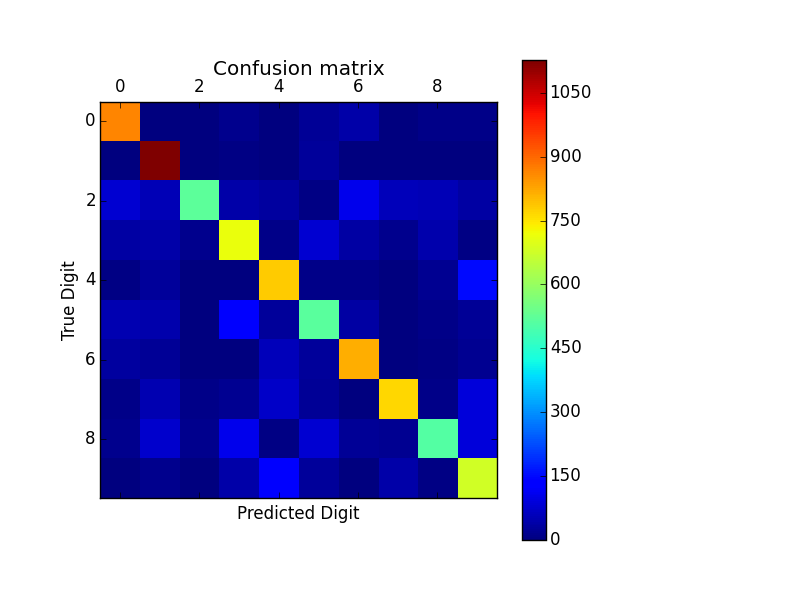
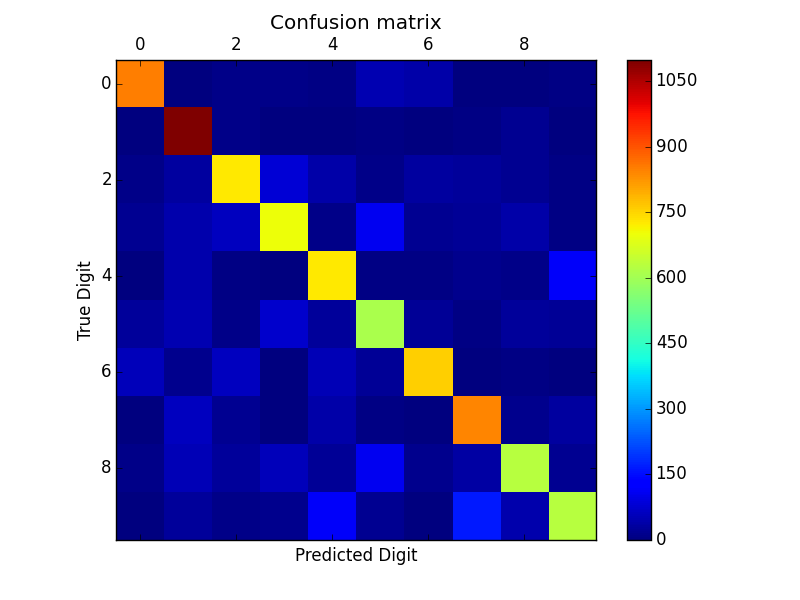
Added in code for kaggle test, added histogram to make sense of results, cleaned up code

diff --git a/HW1/problem1.py b/HW1/problem1.py
@@ -62,6 +62,7 @@ if DEBUG:
     print trainMatrix, testMatrix
 
 ############# GET DATA ############# 
+testData = np.array(testMatrix['test_images'])
 imageData = np.array(trainMatrix['train_images'])
 imageData = np.rollaxis(imageData, 2, 0)                # move the index axis to be the first 
 imageLabels = np.array(trainMatrix['train_labels'])
@@ -108,6 +109,13 @@ for elem in imageComplete:
 
 # NOTE: Set aside 50,000-60,000 to validate
 
+# Plot the distribution of digits in Validation Data
+plt.title('Histogram for Validation Data')
+plt.ylabel('Count')
+plt.xlabel('Digit Label')
+plt.hist(shuffledLabels[50000:])
+plt.savefig("./Results/ValidationData_Hist.png")
+
 ############# TRAIN SVM ############# 
 print 50*'='
 print "SVM TRAINING"
@@ -121,7 +129,7 @@ for elem in training_Size:
         print 50*'-'
         print "Shuffled Data and Label shape: ", len(shuffledData), len(shuffledLabels)
     
-    clf = svm.SVC(kernel='linear', C=C[1])
+    clf = svm.SVC(kernel='linear', C=C[4])
     clf.fit(shuffledData[:elem], np.array(shuffledLabels[:elem]))
     
     predicted_Digits = clf.predict(shuffledData[50000:])
@@ -139,7 +147,7 @@ for elem in training_Size:
     cm = confusion_matrix(actual_Digits, predicted_Digits)
 ############# PLOT RESULTS #############     
     # Show confusion matrix in a separate window
-    fig = plt.figure(0)
+    fig = plt.figure()
     ax = fig.add_subplot(111)
     cax = ax.matshow(cm)
     plt.title('Confusion matrix')
@@ -147,14 +155,17 @@ for elem in training_Size:
     plt.ylabel('True Digit')
     plt.xlabel('Predicted Digit')
     plt.savefig("./Results/" + str(elem)+"_CM.png")
-    fig.delaxes(fig.axes[1]) 
+
+# Remove color bar
+fig.delaxes(fig.axes[0]) 
 
 # Plot error rate vs training size
-plt.figure(1)
-plt.title('Error Rate Vs Training Size')
-plt.ylabel('Training Size')
-plt.xlabel('Error Rate')
-plt.plot(training_Size, errorRate_array)
+fig = plt.figure()
+ax = fig.add_subplot(111)
+ax.set_title('Error Rate Vs Training Size')
+ax.set_ylabel('Training Size')
+ax.set_xlabel('Error Rate')
+ax.plot(training_Size, errorRate_array)
 plt.savefig("./Results/ErrorRate_TrainingSize.png")
 ####################################### 
 
@@ -185,30 +196,49 @@ scoreBuffer = []
 for C_Value in C:
     clf = svm.SVC(kernel='linear', C=C_Value)
     scores = computeCV_Score(clf, crossValidation_Data, crossValidation_Labels, k)
-    scoreBuffer.append((scores).mean)
+    scoreBuffer.append((scores).mean())
     if DEBUG:
         print "C Value:", C_Value, "Accuracy: %0.2f (+/- %0.2f)" % ((scores).mean(), np.array(scores).std() / 2)
         print 50*'-'
 
-maxScore = np.array(scoreBuffer).max()
+maxScore = np.max(np.array(scoreBuffer))
 maxScore_Index = scoreBuffer.index(maxScore)
-print "Best C Value:", C[maxScore_Index], "Accuracy for that C:", maxScore
+
+# Train SVM using best C value
+clf = svm.SVC(kernel='linear', C=C[maxScore_Index])
+clf.fit(shuffledData[:10000], np.array(shuffledLabels[:10000]))
+# Predict digits
+predicted_Digits = clf.predict(shuffledData[50000:])
+actual_Digits = shuffledLabels[50000:]
+# Compute Accuracy
+accuracy = 0.0
+for elem1, elem2 in zip(predicted_Digits, actual_Digits):
+    if elem1 == elem2:
+        accuracy+=1
+
+print "Using Custom CV Function"
+print "Best C Value:", C[maxScore_Index], "Accuracy for that C:", (100.0*accuracy/len(predicted_Digits))
 print 50*'-'
+
+# FOR KAGGLE
+np.savetxt("./Results/Digits.csv", clf.predict(testData), delimiter=",") 
+
 
 ############# USING BUILT IN FUNCTION ############# 
-for C_Value in C:
-    clf = svm.SVC(kernel='linear', C=C_Value)
-    scores = cross_validation.cross_val_score(clf, shuffledData[:10000], shuffledLabels[:10000], cv=10)
-    if DEBUG:
-        print "C Value:", C_Value, "Accuracy: %0.2f (+/- %0.2f)" % (scores.mean(), scores.std() / 2)
-        print 50*'-'
+# for C_Value in C:
+#     clf = svm.SVC(kernel='linear', C=C_Value)
+#     scores = cross_validation.cross_val_score(clf, shuffledData[:10000], shuffledLabels[:10000], cv=10)
+#     if DEBUG:
+#         print "C Value:", C_Value, "Accuracy: %0.2f (+/- %0.2f)" % (scores.mean(), scores.std() / 2)
+#         print 50*'-'
+# 
+# maxScore = scoreBuffer.max()
+# maxScore_Index = scoreBuffer.index(maxScore)
+# print "Using BuiltIn CV Function"
+# print "Best C Value:", C[maxScore_Index], "Accuracy for that C:", maxScore
+# print 50*'-'
 
-maxScore = scoreBuffer.max()
-maxScore_Index = scoreBuffer.index(maxScore)
-print "Best C Value:", C[maxScore_Index], "Accuracy for that C:", maxScore
-print 50*'-'
 
-
-print 50*'-'
+print 50*'='
 print "End of File"
-print 50*'-'
+print 50*'='

diff --git a/HW1/problem4.py b/HW1/problem4.py
@@ -26,12 +26,12 @@ def computeCV_Score(clf, data, labels, folds):
         # For each validation performed (k-1 total) on a fold
         for j in range(folds):
             if(j!=i):
-                predicted_Digits = clf_local.predict(data[j])
-                for (elem1, elem2) in zip(predicted_Digits, labels[j]):
+                predicted_Class = clf_local.predict(data[j])
+                for (elem1, elem2) in zip(predicted_Class, labels[j]):
                     if elem1 == elem2:
                         accuracy+=1                
             j+=1
-        scores.append(100.0*accuracy/((folds-1)*len(predicted_Digits)))
+        scores.append(100.0*accuracy/((folds-1)*len(predicted_Class)))
         i+=1
     return np.array(scores)
 ###################################
@@ -48,7 +48,7 @@ from sklearn.metrics import confusion_matrix
 import pylab as plt
 from sklearn import cross_validation
 
-DEBUG = True
+DEBUG = False
 ############# FILE STUFF ############# 
 File_Spam = "./spam-dataset/spam_data.mat"
 
@@ -65,12 +65,22 @@ trainingLabels = np.array(trainMatrix['training_labels'][0])
 testData= np.array(trainMatrix['test_data'][0])
 trainingComplete = zip(trainingData, trainingLabels)
 
+############# SHUFFLE DATA ############# 
+random.shuffle(trainingComplete)
+shuffledData = []
+shuffledLabels = []
+for elem in trainingComplete:
+    shuffledData.append((elem[0]))                # Use a simple array of pixels as the feature
+    shuffledLabels.append((elem[1]))
+
+trainingData = np.array(shuffledData)
+trainingLabels = np.array(shuffledLabels)
 if DEBUG:
     print 50*'-'
     print ("Shapes of data and labels: ", trainingData.shape, 
                                     trainingLabels.shape, len(trainingComplete))
         
-C = [ 0.1, 1, 5, 10, 50]                    # array of values for parameter C
+C = [ 0.1, 1, 5, 10, 50, 100]                    # array of values for parameter C
 
 #########################################################
 # CROSS VALIDATION 
@@ -98,7 +108,7 @@ scoreBuffer = []
 for C_Value in C:
     clf = svm.SVC(kernel='linear', C=C_Value)
     scores = computeCV_Score(clf, crossValidation_Data, crossValidation_Labels, k)
-    scoreBuffer.append((scores).mean)
+    scoreBuffer.append((scores).mean())
     if DEBUG:
         print "C Value:", C_Value, "Accuracy: %0.2f (+/- %0.2f)" % ((scores).mean(), np.array(scores).std() / 2)
         print 50*'-'
@@ -108,44 +118,9 @@ maxScore_Index = scoreBuffer.index(maxScore)
 print "Best C Value:", C[maxScore_Index], "Accuracy for that C:", maxScore
 print 50*'-'
 
-############# TRAIN SVM ############# 
+# FOR KAGGLE
+np.savetxt("./Results/Spam.csv", clf.predict(testData), delimiter=",") 
+
 print 50*'='
-print "SVM TRAINING"
-print 50*'='
-
-if DEBUG:
-    print 50*'-'
-    print "Shuffled Data and Label shape: ", len(trainingData), len(trainingLabels)
-
-clf = svm.SVC(kernel='linear', C=C[2])
-clf.fit(trainingData, np.array(trainingLabels))
-
-predicted_Digits = clf.predict(testData)
-actual_Digits = trainingLabels
-accuracy = 0.0
-for elem1, elem2 in zip(predicted_Digits, actual_Digits):
-    if elem1 == elem2:
-        accuracy+=1
-
-print "Accuracy: ", 100.0*accuracy/len(predicted_Digits), "%"
-print 50*'-'
-
-cm = confusion_matrix(actual_Digits, predicted_Digits)
-############# PLOT RESULTS #############     
-# Show confusion matrix in a separate window
-plt.matshow(cm)
-plt.title('Confusion matrix')
-plt.colorbar()
-plt.ylabel('True Digit')
-plt.xlabel('Predicted Digit')
-plt.savefig("./ResultsSpam/" +"_CM.png")
-
-####################################### 
-
-
-
-
-
-print 50*'-'
 print "End of File"
-print 50*'-'
+print 50*'='
